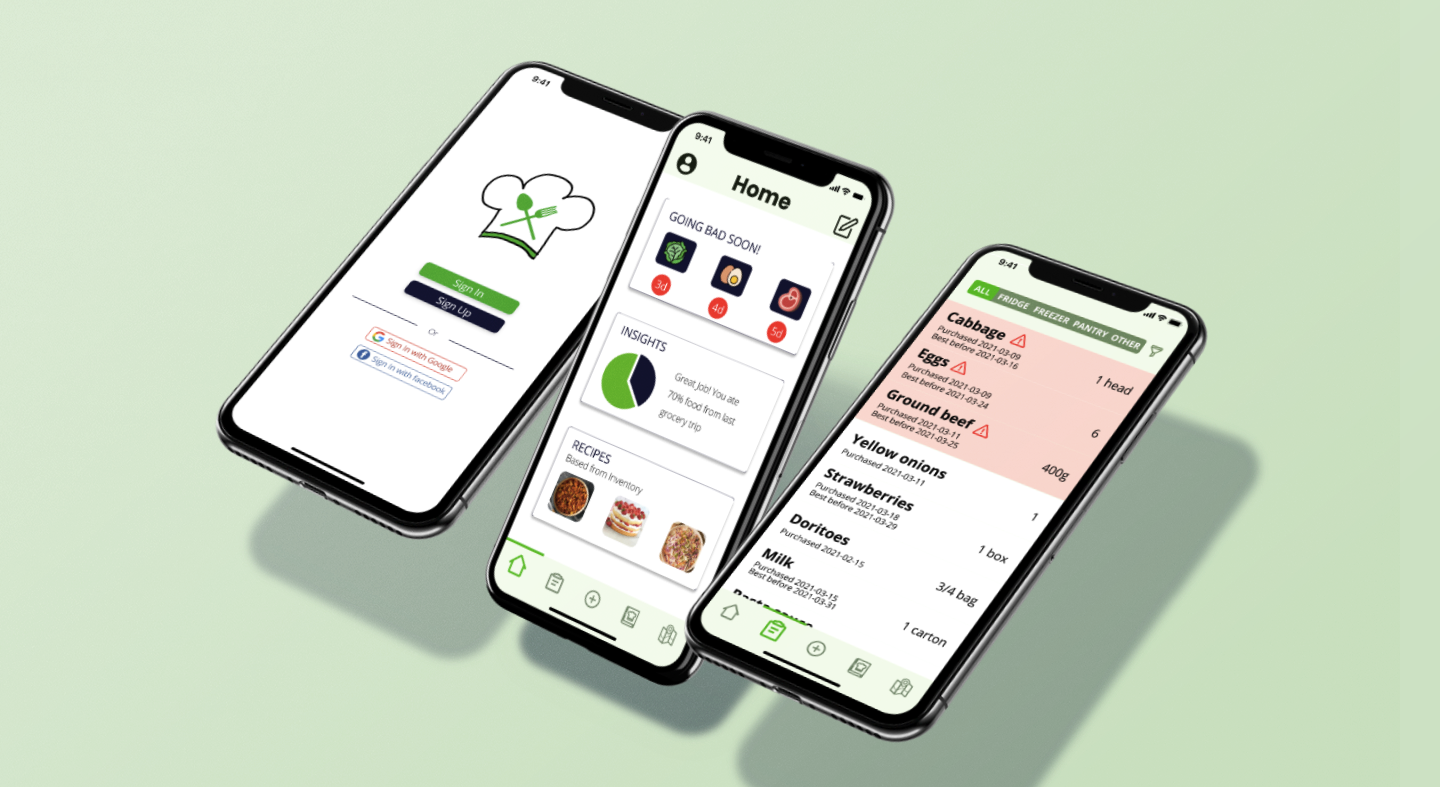
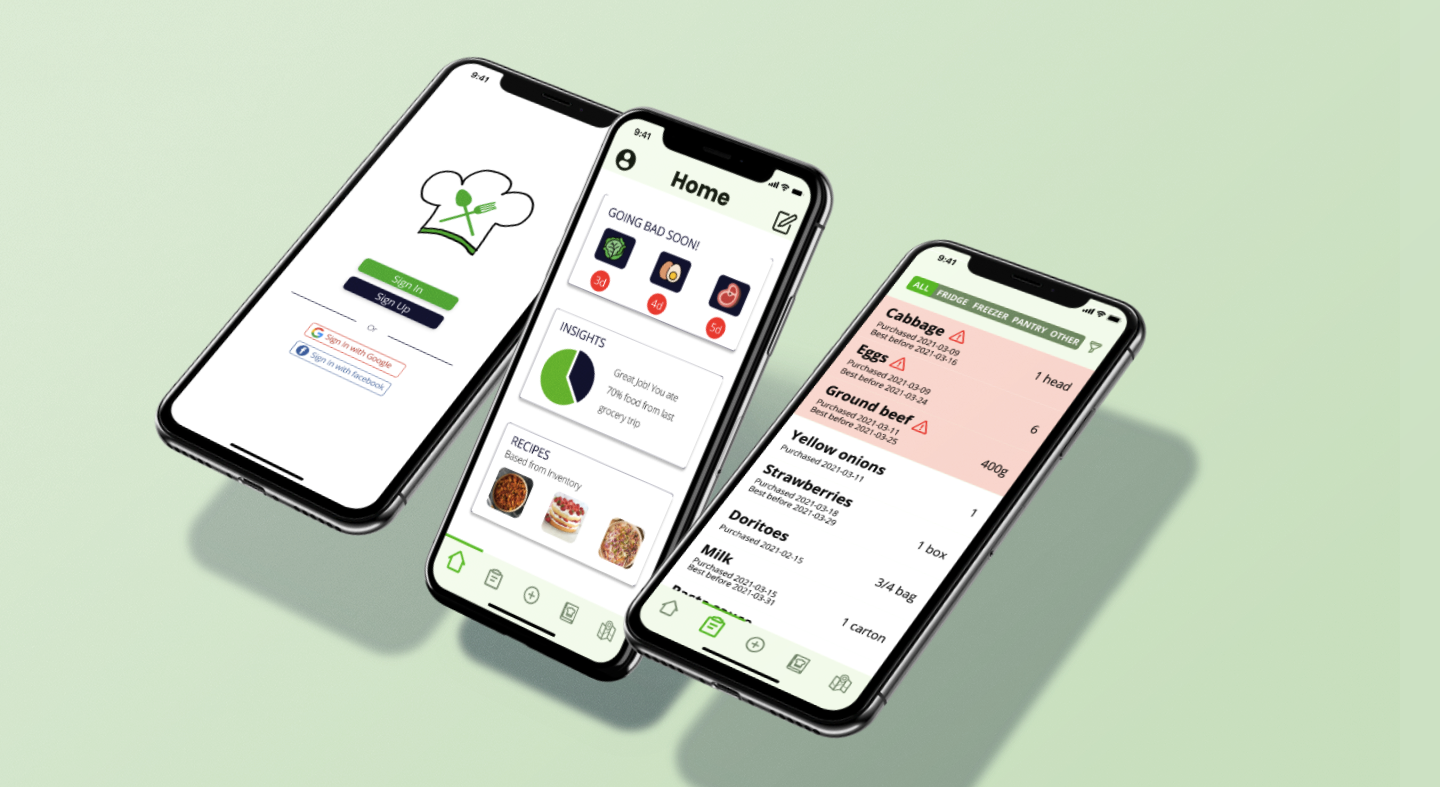
Food Waste Management image update.

Changed region(s): [[0.0938, 0.061, 0.875, 1.0]]

diff --git a/projects.php b/projects.php
@@ -24,12 +24,12 @@
                 <div class="project project-web">
                     <div class="project-thumbnail">
                         <div class="desktop">
-                            <img src="img/projects/food_waste_management/food_waste_management_mockup_four.png"
-                                alt="">
+                            <img src="img/projects/food_waste_management/food_waste_management_mockup_three.png"
+                                alt="Mockup of the Login, Home, and Inventory pages.">
                         </div>
                         <div class="mobile">
                             <img src="img/projects/food_waste_management/food_waste_management_page_recipes_two.png"
-                                alt="">
+                                alt="The Recipes page.">
                         </div>
                     </div>
                     <div class="project-details">

diff --git a/index.php b/index.php
@@ -52,12 +52,12 @@
             <div class="project project-web">
                 <div class="project-thumbnail">
                     <div class="desktop">
-                        <img src="img/projects/food_waste_management/food_waste_management_mockup_four.png"
-                            alt="">
+                        <img src="img/projects/food_waste_management/food_waste_management_mockup_three.png"
+                            alt="Mockup of the Login, Home, and Inventory pages.">
                     </div>
                     <div class="mobile">
                         <img src="img/projects/food_waste_management/food_waste_management_page_recipes_two.png"
-                            alt="">
+                            alt="The Recipes page.">
                     </div>
                 </div>
                 <div class="project-details">
